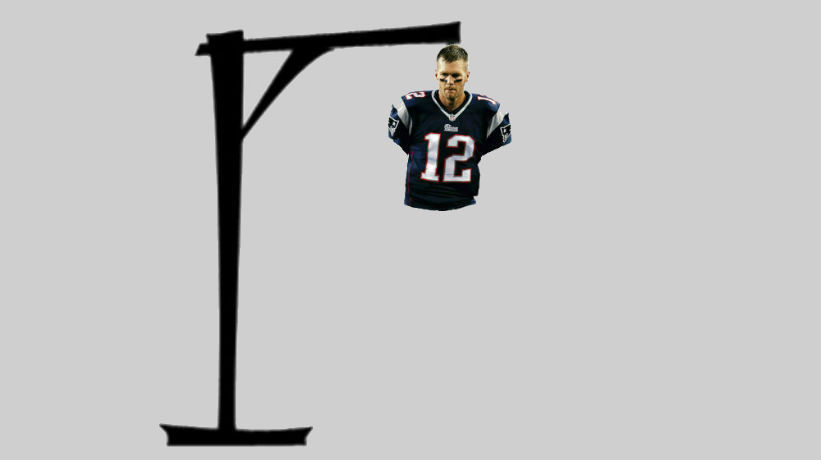
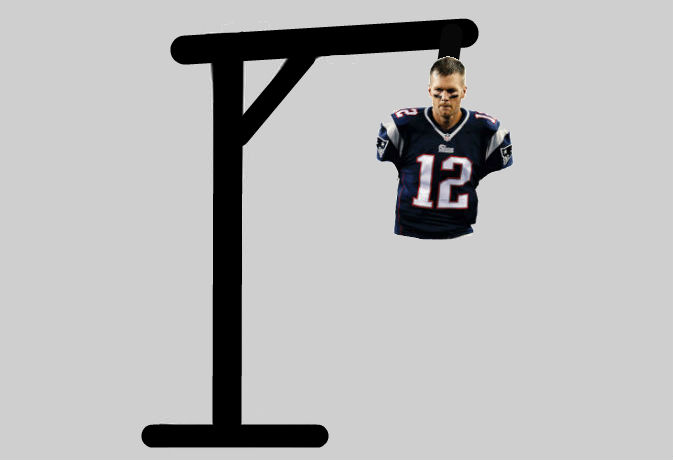
refactored back end logic and improved looks

Changed region(s): [[0.1872, 0.0304, 0.7801, 0.9739]]

diff --git a/index.html b/index.html
@@ -3,61 +3,68 @@
     <head>
         <link rel="stylesheet" type="text/css" href="css/bootstrap.min.css">
         <link rel="stylesheet" type="text/css" href="css/hangman.css">
+        <script type="text/javascript" src="js/angular.min.js"></script>
+        <script type="text/javascript" src="js/hangman.js"></script>
     </head>
     
-    <header>
-        <h1 id="title" class="text-center">Tom Brady Hangman</h1>
-    </header>
-    
     <body id="outer" class="container" ng-controller="HangmanController as hangman">
+            
+        <header>
+            <h1 id="title" class="text-center">Tom Brady Hangman</h1>
+        </header>    
         
-    <script type="text/javascript" src="js/angular.min.js"></script>
-    <script type="text/javascript" src="js/hangman.js"></script>
-        
-        <form name="setupForm" ng-controller="SetupController as setupCtrl" ng-submit="setupCtrl.done(hangman)" ng-hide="hangman.setupComplete">
-            <cite class="clearfix">
+        <form id="formOne" name="setupForm" ng-controller="SetupController as setupCtrl" ng-submit="setupCtrl.done(hangman)" ng-hide="hangman.setupComplete">
+            <div>
+                <img ng-src='images/brady.jpg' width="100%"/>
+            </div>
+              
+            <div>
                 "When I felt them, they were perfect. I wouldn't want anyone touching those. 
-                    I would zip those things up and lock them away until 
-                    I got on the field and had the opportunity to play with them." -- Tom Brady 
-            </cite>
+                I would zip those things up and lock them away until 
+                I got on the field and had the opportunity to play with them." -- Tom Brady 
+            </div>
             <br>
-            <cite class="clearfix">
+            <div>
                 Are you buying what Tom Brady had to say about the recent "deflategate" incident? 
                 Help decide Tom's fate with a game of hangman.... <br>
-            </cite>
+            </div>
             <br>
             <fieldset class="form-group">
-                <textarea ng-model="hangman.hangmanWord" class="form-control" placeholder="Enter a word for hangman..." title="Hangman Word" required></textarea>
+                <input ng-model="hangman.hangmanWord"type="text" class="form-control" placeholder="Enter a word for hangman..." title="Hangman Word" required></>
             </fieldset>
             <fieldset class="form-group">
-                <input type="submit" class="btn btn-success btn-block" value="Done" />
+                <input type="submit" class="btn btn-primary btn-block" value="Done" />
             </fieldset>
         </form>
-    
         
         <div class="gallery" style="text-align: center" ng-show="hangman.setupComplete">
             <img ng-src="{{hangman.image}}" />
         </div>
         
-        <form name="dataEntryForm" ng-controller="DataEntryController as dataEntryCtrl" ng-click="dataEntryCtrl.submit(hangman)" ng-show="hangman.setupComplete">
+        <form id="formOne" name="dataEntryForm" ng-controller="DataEntryController as dataEntryCtrl" ng-submit="dataEntryCtrl.submit(hangman)" ng-show="hangman.setupComplete">
             <fieldset class="form-group" style="text-align: center">
-                <input ng-repeat="item in hangman.wordArray track by $index"  ng-model="hangman.wordArray[$index]" type="text" maxlength="1" size="1" style="text-align: center" />
-                <fieldset>
+                <input id="lines" ng-repeat="item in hangman.wordArray track by $index" ng-model="hangman.wordArray[$index]" ng-readonly="true" type="text" maxlength="1" size="1" style="text-align: center" />
+            <fieldset>
+            <br>    
+            <fieldset>    
+                <div ng-hide="hangman.misses.length == 0">
                     Misses:
-                    <input ng-repeat="miss in hangman.misses track by $index"  ng-model="hangman.misses[$index]" type="text" maxlength="1" size="1" style="text-align: center" />
-                </fieldset>
-                
-                <input type="submit" class="btn btn-success pull-right" value="Submit" />
-
+                </div>    
+                <input ng-repeat="miss in hangman.misses track by $index"  ng-model="hangman.misses[$index]" ng-readonly="true" type="text" maxlength="1" size="1" style="text-align: center" />
+            </fieldset>
+            <br>
+            </fieldset>
+                <input ng-model="hangman.guess" class="form-control"placeholder="Enter a letter..." type="text" maxlength="1" size="15" style="text-align: center" ng-hide="hangman.winner"/>
+                <input type="submit" class="btn btn-primary btn-block" value="Guess" />
             </fieldset>
         </form>         
         
-        <form name=hintForm ng-controller="HintController as hintCtrl" ng-click="hintCtrl.getHint(hangman)" ng-show="hangman.setupComplete">
+        <form id="formOne" name=hintForm ng-controller="HintController as hintCtrl" ng-click="hintCtrl.getHint(hangman)" ng-show="hangman.setupComplete">
             <fieldset class="form-group">
+                
                 <select ng-model="hangman.hintOption" class="form-control" ng-options="hints for hints in ['Standard Definition','Urban Dictionary Definition']" title="Hint">
                     <option value="">Select a hint option...</option>
                 </select>
-                <input type="submit" class="btn btn-success pull-right" value="Get Hint" />
                 <blockquote>{{hangman.definition}}</blockquote>    
             </fieldset>
         </form>

diff --git a/js/hangman.js b/js/hangman.js
@@ -5,6 +5,8 @@
     app.controller('HangmanController', function () {
             
         this.hangmanWord = '';
+        this.guess = '';
+        this.homeImage = 'images/brady.jpg'; 
         this.image = 'images/hangman0.jpg';
         this.hintOption = '';
         this.definition = '';
@@ -12,7 +14,6 @@
         this.numberOfMisses = 0;
         this.misses = [];
         this.winner = false;
-        this.currentMatches = [];
         this.matchCount = 0;
     });
     
@@ -28,80 +29,60 @@
             
             hangman.setupComplete = true;
         };    
+        
     });
     
         
     app.controller('DataEntryController', function(){
         
         this.submit = function(hangman){
-            hangman.currentMatches = [];
-            hangman.matchCount = 0;
+            var found = false;
+            
+            //If the user didn't enter a letter we can bail out
+            if(!hangman.guess) return;
             
             for(var i = 0; i< hangman.hangmanWord.length; i++)
             {
-                //If the user changed the value of this text box
-                if(hangman.wordArray[i] !== '')
+                if(hangman.hangmanWord.charAt(i).toLowerCase() == hangman.guess.toLowerCase())
                 {
-                    if(hangman.wordArray[i] !== hangman.hangmanWord.charAt(i))
-                    {
-                        //This was a miss
-                        hangman.numberOfMisses ++;
-                        //Add the guess to the list of misses
-                        hangman.misses.push(hangman.wordArray[i])
-                        //Reset the fom
-                        hangman.wordArray[i] = '';
-                    }
-                    else { //A hit and a match
-                        //Add to the list of matches because we need to replace other instances of the same letter if they appear later in the word
-                        hangman.currentMatches.push(hangman.wordArray[i]);
-                        hangman.matchCount ++;
-                    }
-                }   
-                else if(hangman.currentMatches.length > 0) //This part of the form hasnt chaned but we might need to replace a  letter if we already have matches
-                {
-                    for(var j = 0; j < hangman.currentMatches.length; j++){
-                        if(hangman.hangmanWord.charAt(i) == hangman.currentMatches[j])
-                        {
-                            hangman.wordArray[i] = hangman.currentMatches[j];
-                            hangman.matchCount ++;   
-                        }
-                    }
+                    hangman.wordArray[i] = hangman.guess; 
+                    hangman.matchCount++;
+                    found = true;
                 }
+            }
+            
+            if(!found)
+            {
+                hangman.misses.push(hangman.guess);
+                hangman.numberOfMisses++;
             }
             
             //Do we have a winner??
             if(hangman.matchCount == hangman.hangmanWord.length)
             {
-                hangman.winner = true;    
+                hangman.winner = true;
             }
             
-            if(!hangman.winner && hangman.numberOfMisses == 7) //You lost :(
-            {
-                hangman.image = 'images/looser.jpg';
-            }
-            else if(!hangman.winner) //Keep guessing..
+            if(!hangman.winner) //Keep guessing..
             {
                 switch(hangman.numberOfMisses){
-                    case 0:
-                        hangman.image = 'images/hangman0.jpg';
-                        break;
                     case 1:
                         hangman.image = 'images/hangman1.jpg';
-                        break;    
+                        break;
                     case 2:
                         hangman.image = 'images/hangman2.jpg';
-                        break;   
+                        break;    
                     case 3:
                         hangman.image = 'images/hangman3.jpg';
                         break;   
                     case 4:
                         hangman.image = 'images/hangman4.jpg';
-                        break;
+                        break;   
                     case 5:
                         hangman.image = 'images/hangman5.jpg';
                         break;
                     case 6:
-                        hangman.image = 'images/hangman6.jpg';
+                        hangman.image = 'images/loser.jpg'
                         break;
                 }
             }
@@ -109,6 +90,9 @@
             {
                 hangman.image = 'images/winner.jpg'    
             }
+            
+            //Clear out the previous guess
+            hangman.guess = '';
             
         };
         

diff --git a/css/hangman.css b/css/hangman.css
@@ -9,3 +9,13 @@ body {
     font-size:70px;
     font-style: italic;
 }
+
+#formOne{
+   width: 50%;
+   min-width:200px;
+   margin: auto auto;
+}
+
+blockquote{
+   border:none;
+}
